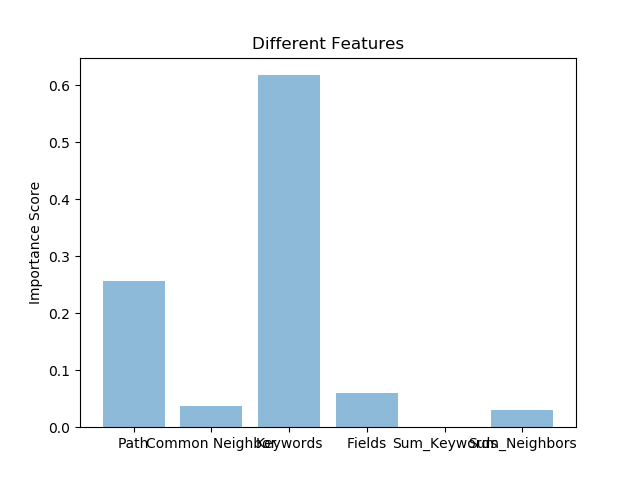
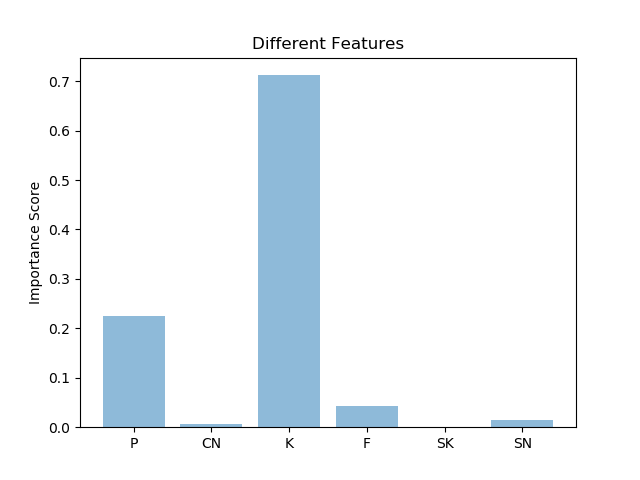
update models

diff --git a/Models/model.py b/Models/model.py
@@ -10,7 +10,10 @@ from sklearn.neural_network import MLPClassifier
 from sklearn.tree import DecisionTreeClassifier
 from sklearn.ensemble import AdaBoostClassifier
 from matplotlib import pyplot as plt
-
+from sklearn.neighbors import KNeighborsClassifier
+import time
+from mpl_toolkits.mplot3d import Axes3D
+import numpy as np
 class Model(object):
 
 	def __init__(self, train_data, train_labels, test_data, test_labels):
@@ -22,7 +25,10 @@ class Model(object):
 
 	def random_forest(self):
 
-		clf = RandomForestClassifier(n_estimators= 30, max_depth=3, random_state=0, min_samples_leaf=10)
+		#15 6
+
+		#20 7
+		clf = RandomForestClassifier(n_estimators= 20, max_depth=7, random_state=0, min_samples_leaf=20)
 		#clf = svm.SVC()
 		clf.fit(self.train_data, self.train_labels)
 		y_pred = []
@@ -33,22 +39,11 @@ class Model(object):
 		return clf.feature_importances_
 
 
-	def decision_Tree(self):
-
-		clf = RandomForestClassifier(max_depth=2, random_state=0)
-		#clf = svm.SVC()
-		clf.fit(self.train_data, self.train_labels)
-		print(clf.feature_importances_)
-		y_pred = []
-		for query in self.test_data:
-			y_pred.append(clf.predict([query])[0])
-
-		print (confusion_matrix(self.test_labels, y_pred))
 
 
 	def svm_kernel(self):
 
-		clf = svm.SVC(verbose = True)
+		clf = svm.SVC(random_state = 0, verbose = True)
 		#clf = svm.SVC()
 		clf.fit(self.train_data, self.train_labels)
 		y_pred = []
@@ -57,23 +52,12 @@ class Model(object):
 
 		print (confusion_matrix(self.test_labels, y_pred))
 
-	def svm(self):
-
-		clf = RandomForestClassifier(max_depth=2, random_state=0)
-		#clf = svm.SVC()
-		clf.fit(self.train_data, self.train_labels)
-		print(clf.feature_importances_)
-		y_pred = []
-		for query in self.test_data:
-			y_pred.append(clf.predict([query])[0])
-
-		print (confusion_matrix(self.test_labels, y_pred))
 
 	def adaBoost(self):
 
-		clf = AdaBoostClassifier(DecisionTreeClassifier(max_depth=2),
+		clf = AdaBoostClassifier(DecisionTreeClassifier(max_depth=3),
                          algorithm="SAMME",
-                         n_estimators=200)
+                         n_estimators=20)
 		#clf = svm.SVC()
 		clf.fit(self.train_data, self.train_labels)
 		y_pred = []
@@ -84,6 +68,7 @@ class Model(object):
 
 	def neuralNetwork(self):
 
+		start = time.time()
 		clf = MLPClassifier(solver='lbfgs', alpha=1e-5,
                     hidden_layer_sizes=(5, 2), random_state=1)
 		#clf = svm.SVC()
@@ -92,26 +77,49 @@ class Model(object):
 		for query in self.test_data:
 			y_pred.append(clf.predict([query])[0])
 
+		print (time.time() - start)
+		print (confusion_matrix(self.test_labels, y_pred))
+
+	def knn(self):
+		clf = KNeighborsClassifier(n_neighbors=3)
+		#clf = svm.SVC()
+		clf.fit(self.train_data, self.train_labels)
+		y_pred = []
+		for query in tqdm(self.test_data):
+			y_pred.append(clf.predict([query])[0])
+
 		print (confusion_matrix(self.test_labels, y_pred))
 
 
 if __name__ == "__main__":
 	test_labels = pickle.load( open ("test_labels.p", "rb"))
-	test_data = pickle.load( open ("test_data.p", "rb"))
+	test_data = pickle.load( open ("X_scaled_test.p", "rb"))
 	train_labels = pickle.load( open ("labels.p", "rb"))
-	train_data = pickle.load( open ("data_matrix.p", "rb"))
-	model = Model(train_data, train_labels, test_data, test_labels)
-	importance = model.random_forest()
-	fig = plt.figure()
+	train_data = pickle.load( open ("X_scaled_train.p", "rb"))
 
-	y_pos = range(len(importance))
-	objects = ["P", "CN", "K",
-	 "F", "SK", "SN"]
-	plt.bar(y_pos, importance, align='center', alpha=0.5)
-	plt.xticks(y_pos, objects)
-	plt.ylabel('Importance Score')
-	plt.title('Different Features')
-	fig.savefig("importances3.png")
+	#model = Model(train_data, train_labels, test_data, test_labels)
+	#model.neuralNetwork()
+
+	positive = []
+	negative = []
+	for train, label in zip(train_data, train_labels):
+		if label == 1:
+			positive.append(train)
+		else:
+			negative.append(train)
+
+	positive = np.array(positive)
+	negative = np.array(negative)
+	fig = plt.figure()
+	ax = fig.add_subplot(111, projection='3d')
+	ax.scatter(positive[:,0], positive[:,1], positive[:,2], c="green", label ="Has Edge")
+	ax.scatter(negative[:,0], negative[:,1], negative[:,2], c="blue", label = "No Edge")
+	plt.legend(loc = "upper left")
+	ax.set_xlabel('P')
+	ax.set_ylabel('K')
+	ax.set_zlabel('F')
+	ax.view_init(azim=60)
+	fig.savefig("test.png")
 
 
 

diff --git a/Models/features.py b/Models/features.py
@@ -3,6 +3,8 @@ import pickle
 from graph import Graph
 import json
 import networkx as nx
+import numpy as np
+from sklearn import preprocessing
 class Metrics(object):
 
 	def __init__(self, train, test, path_feature = False):
@@ -86,14 +88,25 @@ if __name__ == "__main__":
 
 
 				if index <= len(dataGraph.train.nodes)**2.0 - 2*len(dataGraph.train.edges):
-					data.append([path_score, neighbor_score, key_score, field_score, kSum, nSum])
+					data.append([path_score, key_score, field_score, neighbor_score, kSum, nSum])
 					labels.append(int((node1, node2) in dataGraph.test.edges))
 				else:
-					test_data.append([path_score, neighbor_score, key_score, field_score, kSum, nSum])
+					test_data.append([path_score, key_score, field_score, neighbor_score, kSum, nSum])
 					test_labels.append(int((node1, node2) in dataGraph.test.edges))
 			index +=1
 
-	pickle.dump( data, open("data_matrix.p", "wb"))
+	X_train = np.array(data)
+	X_reduce_train = X_train[:, [0, 1, 2]]
+	X_scaled_train = preprocessing.scale(X_reduce_train)
+
+	X_test = np.array(test_data)
+	X_reduce_test = X_test[:, [0, 1, 2]]
+	X_scaled_test = preprocessing.scale(X_reduce_test)
+
+
+	pickle.dump( X_train, open("X_train.p", "wb"))
+	pickle.dump( X_scaled_train, open("X_scaled_train.p", "wb"))
+	pickle.dump( X_test, open("X_test.p", "wb"))
+	pickle.dump( X_scaled_test, open("X_scaled_test.p", "wb"))
 	pickle.dump( labels, open("labels.p", "wb"))
-	pickle.dump( test_data, open("test_data.p", "wb"))
 	pickle.dump( test_labels, open("test_labels.p", "wb"))

diff --git a/Models/scatter3d_demo.py b/Models/scatter3d_demo.py
@@ -1,0 +1,38 @@
+'''
+==============
+3D scatterplot
+==============
+
+Demonstration of a basic scatterplot in 3D.
+'''
+
+from mpl_toolkits.mplot3d import Axes3D
+import matplotlib.pyplot as plt
+import numpy as np
+
+
+def randrange(n, vmin, vmax):
+    '''
+    Helper function to make an array of random numbers having shape (n, )
+    with each number distributed Uniform(vmin, vmax).
+    '''
+    return (vmax - vmin)*np.random.rand(n) + vmin
+
+fig = plt.figure()
+ax = fig.add_subplot(111, projection='3d')
+
+n = 100
+
+# For each set of style and range settings, plot n random points in the box
+# defined by x in [23, 32], y in [0, 100], z in [zlow, zhigh].
+for c, m, zlow, zhigh in [('r', 'o', -50, -25), ('b', '^', -30, -5)]:
+    xs = randrange(n, 23, 32)
+    ys = randrange(n, 0, 100)
+    zs = randrange(n, zlow, zhigh)
+    ax.scatter(xs, ys, zs, c=c, marker=m)
+
+ax.set_xlabel('X Label')
+ax.set_ylabel('Y Label')
+ax.set_zlabel('Z Label')
+
+plt.show()
